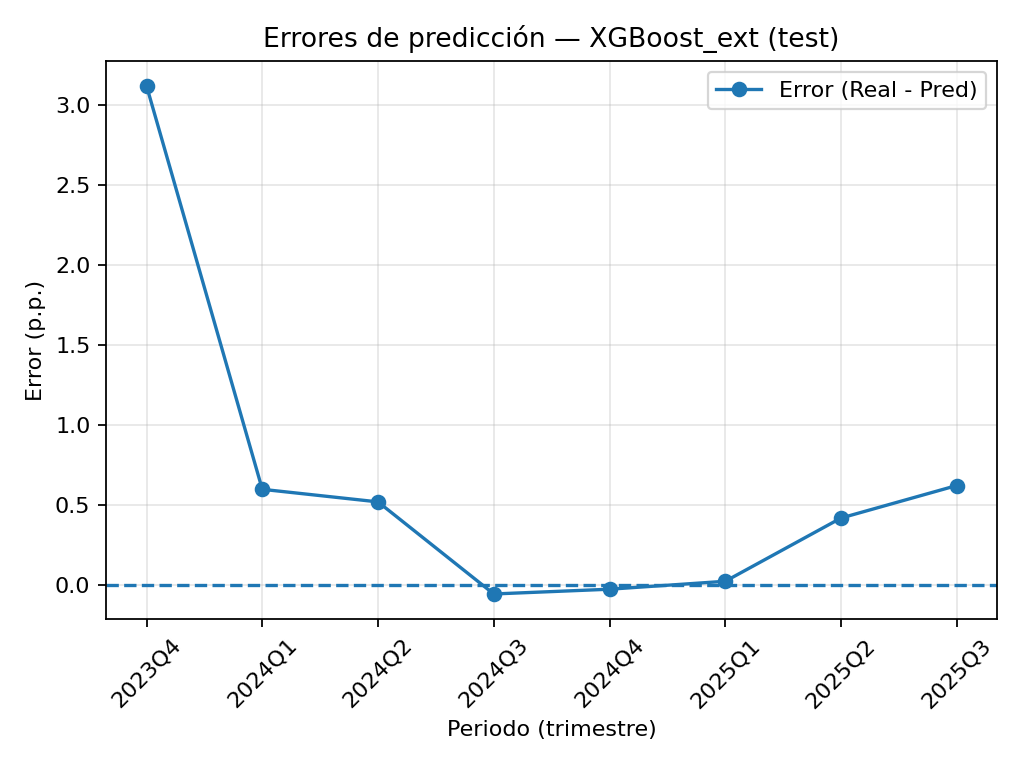
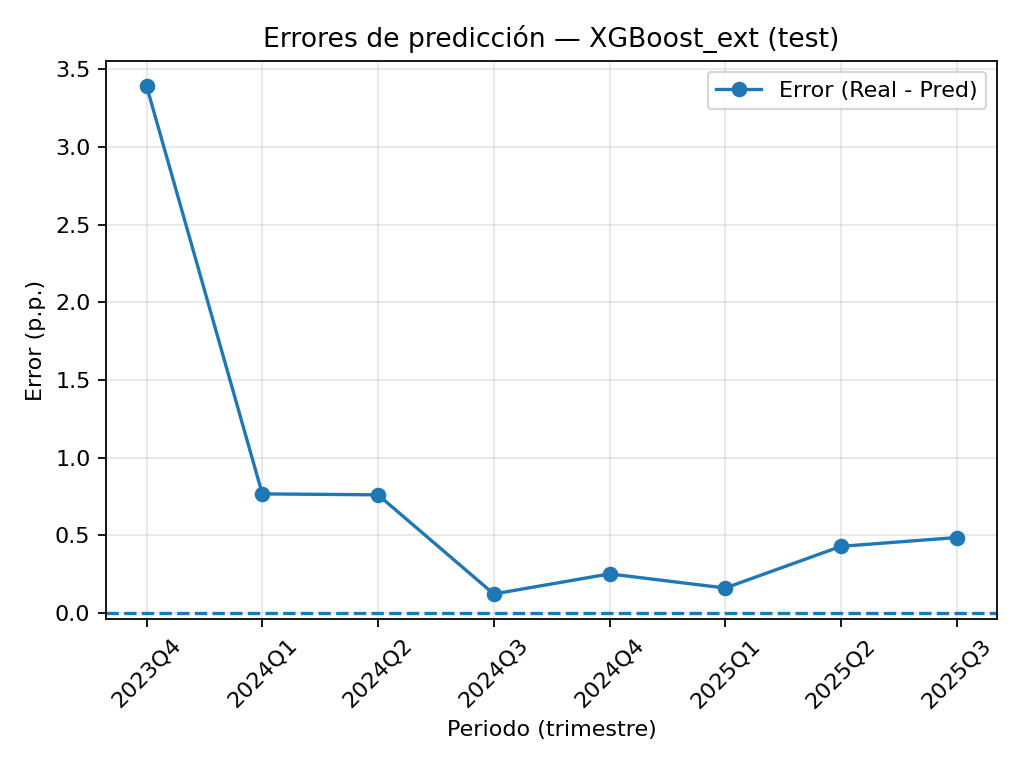
Bloque 0: experimentos por país (ES, FR, IT) con XGBoost base y ampliado

diff --git a/src/models/train_xgboost_panel.py b/src/models/train_xgboost_panel.py
@@ -1,0 +1,188 @@
+import argparse
+from pathlib import Path
+import pandas as pd
+import numpy as np
+
+from xgboost import XGBRegressor
+from sklearn.metrics import mean_absolute_error, mean_squared_error
+import matplotlib.pyplot as plt
+
+
+DATA_PATH = Path("../../data/processed/dataset_panel_v1.parquet")
+
+OUT_DIR = Path("../../reports")
+FIG_DIR = OUT_DIR / "figures"
+OUT_DIR.mkdir(parents=True, exist_ok=True)
+FIG_DIR.mkdir(parents=True, exist_ok=True)
+
+# Split temporal
+TRAIN_START = "2009Q2"
+TRAIN_END   = "2023Q3"
+TEST_START  = "2023Q4"
+TEST_END    = "2025Q3"
+
+TARGET = "gdp_qoq_pct"
+
+FEATURES_BASE = ["unemployment_rate_l1", "inflation_qoq_pct_l1"]
+
+FEATURES_EXT = [
+    "gdp_qoq_pct_l1", "gdp_qoq_pct_l2",
+    "unemployment_rate_l1", "inflation_qoq_pct_l1",
+    "ipi_qoq_pct_l1", "retail_qoq_pct_l1"
+]
+
+
+def rmse(y_true, y_pred):
+    return np.sqrt(mean_squared_error(y_true, y_pred))
+
+
+def plot_real_vs_pred(periods, y_true, y_pred, title, out_path):
+    plt.figure()
+    plt.plot(periods, y_true, marker="o", label="Real")
+    plt.plot(periods, y_pred, marker="o", label="Predicción")
+    plt.title(title)
+    plt.xlabel("Periodo (trimestre)")
+    plt.ylabel("Crecimiento PIB QoQ (%)")
+    plt.xticks(rotation=45)
+    plt.grid(True, alpha=0.3)
+    plt.legend()
+    plt.tight_layout()
+    plt.savefig(out_path, dpi=160)
+    plt.close()
+
+
+def plot_errors(periods, errors, title, out_path):
+    plt.figure()
+    plt.plot(periods, errors, marker="o", label="Error (Real - Pred)")
+    plt.axhline(0, linestyle="--")
+    plt.title(title)
+    plt.xlabel("Periodo (trimestre)")
+    plt.ylabel("Error (p.p.)")
+    plt.xticks(rotation=45)
+    plt.grid(True, alpha=0.3)
+    plt.legend()
+    plt.tight_layout()
+    plt.savefig(out_path, dpi=160)
+    plt.close()
+
+
+def train_and_eval(df, features, model_name, geo):
+    # Drop NA solo en lo necesario
+    use_cols = ["geo", "period", TARGET] + features
+    d = df[use_cols].dropna().copy()
+
+    # Split
+    train = d[(d["period"] >= TRAIN_START) & (d["period"] <= TRAIN_END)]
+    test  = d[(d["period"] >= TEST_START) & (d["period"] <= TEST_END)]
+
+    X_train = train[features]
+    y_train = train[TARGET]
+    X_test = test[features]
+    y_test = test[TARGET]
+
+    print(f"\n=== {model_name} ({geo}) ===")
+    print("Features:", ", ".join(features))
+    print(f"Train: {TRAIN_START} -> {TRAIN_END} (n={len(train)})")
+    print(f"Test : {TEST_START} -> {TEST_END} (n={len(test)})")
+
+    model = XGBRegressor(
+        n_estimators=500,
+        learning_rate=0.05,
+        max_depth=3,
+        subsample=0.9,
+        colsample_bytree=0.9,
+        random_state=42
+    )
+    model.fit(X_train, y_train)
+
+    y_pred = model.predict(X_test)
+    mae = mean_absolute_error(y_test, y_pred)
+    r = rmse(y_test, y_pred)
+
+    print(f"MAE={mae:.4f}  RMSE={r:.4f}")
+
+    out = test[["period", TARGET]].copy()
+    out["y_pred"] = y_pred
+    out["error"] = out[TARGET] - out["y_pred"]
+    out = out.rename(columns={TARGET: "y_true"})
+
+    # Save preds — nombre incluye geo en minúsculas
+    geo_lower = geo.lower()
+    slug = model_name.lower().replace(" ", "_")
+    out_csv = OUT_DIR / f"predictions_{slug}_{geo_lower}.csv"
+    out.to_csv(out_csv, index=False)
+    print("Predicciones guardadas en:", out_csv)
+
+    # Plots
+    periods = out["period"].astype(str).tolist()
+    plot_real_vs_pred(
+        periods, out["y_true"].values, out["y_pred"].values,
+        title=f"PIB QoQ (%) — Real vs Predicción ({model_name}, {geo}, test)",
+        out_path=FIG_DIR / f"{slug}_{geo_lower}_real_vs_pred.png"
+    )
+    plot_errors(
+        periods, out["error"].values,
+        title=f"Errores de predicción — {model_name} ({geo}, test)",
+        out_path=FIG_DIR / f"{slug}_{geo_lower}_errors.png"
+    )
+
+    # Feature importance (gain)
+    try:
+        booster = model.get_booster()
+        score = booster.get_score(importance_type="gain")
+        imp = pd.DataFrame(
+            {"feature": list(score.keys()), "gain": list(score.values())}
+        ).sort_values("gain", ascending=False)
+
+        plt.figure()
+        plt.bar(imp["feature"], imp["gain"])
+        plt.title(f"Importancia de variables (gain) — {model_name} ({geo})")
+        plt.xlabel("Variable")
+        plt.ylabel("Importancia (gain)")
+        plt.xticks(rotation=45)
+        plt.tight_layout()
+        plt.savefig(FIG_DIR / f"{slug}_{geo_lower}_feature_importance.png", dpi=160)
+        plt.close()
+    except Exception as e:
+        print("No se pudo guardar feature importance:", e)
+
+    return mae, r
+
+
+def main():
+    ap = argparse.ArgumentParser()
+    ap.add_argument("--geo", default="ES", help="Código del país (ej: ES, FR, IT)")
+    ap.add_argument("--data", default=str(DATA_PATH), help="Ruta al dataset panel parquet")
+    args = ap.parse_args()
+
+    geo = args.geo.upper()
+
+    df = pd.read_parquet(Path(args.data)).copy()
+
+    if df["period"].dtype == object:
+        df["period"] = pd.PeriodIndex(df["period"], freq="Q")
+
+    df = df.sort_values(["geo", "period"]).reset_index(drop=True)
+
+    available = sorted(df["geo"].unique())
+    if geo not in available:
+        raise ValueError(f"geo='{geo}' no encontrado en el dataset. Disponibles: {available}")
+
+    df = df[df["geo"] == geo].copy()
+
+    mae_b, rmse_b = train_and_eval(df, FEATURES_BASE, "XGBoost_base", geo)
+    mae_e, rmse_e = train_and_eval(df, FEATURES_EXT, "XGBoost_ext", geo)
+
+    metrics = pd.DataFrame([
+        {"model": "XGBoost_base", "geo": geo, "mae": mae_b, "rmse": rmse_b, "n_features": len(FEATURES_BASE)},
+        {"model": "XGBoost_ext",  "geo": geo, "mae": mae_e, "rmse": rmse_e, "n_features": len(FEATURES_EXT)},
+    ])
+
+    metrics_path = OUT_DIR / f"metrics_xgboost_{geo.lower()}_compare.csv"
+    metrics.to_csv(metrics_path, index=False)
+    print("\nMétricas guardadas en:", metrics_path)
+    print(metrics.to_string(index=False))
+
+
+if __name__ == "__main__":
+    main()
